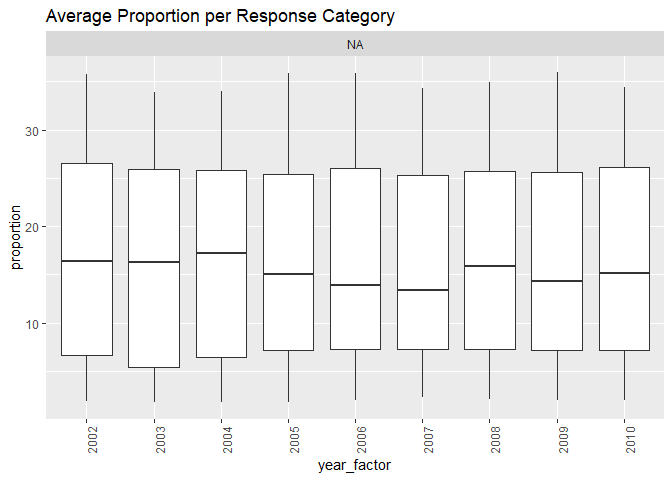
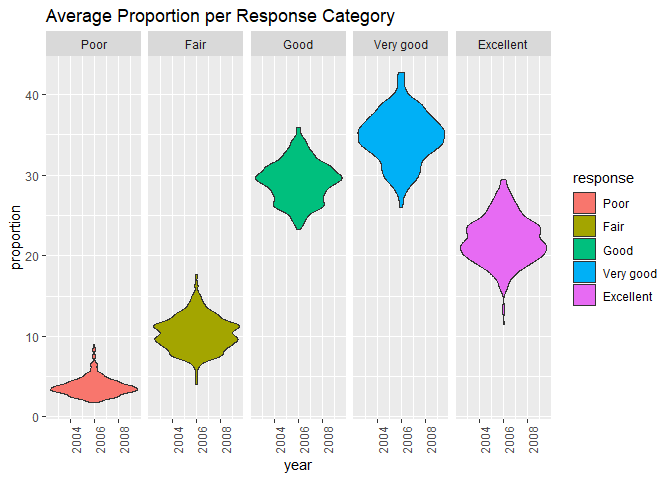
Proportions fixed

diff --git a/p8105_hw3.md b/p8105_hw3.md
@@ -32,7 +32,7 @@ brfss_data =
 ## focus on the “Overall Health” topic
   filter(topic == "Overall Health") %>%
 ## include only responses from “Excellent” to “Poor”
-  filter(response == "Excellent" | response == "Very Good" | response == "Good" | response == "Fair" | response == "Poor") %>%
+  filter(response == "Excellent" | response == "Very good" | response == "Good" | response == "Fair" | response == "Poor") %>%
 ## organize responses as a factor taking levels ordered from “Excellent” to “Poor”
   mutate(cleaned_response = as.factor(response)) %>%
   ## organize and select relevant columns for questions
@@ -41,20 +41,20 @@ brfss_data =
 brfss_data
 ```
 
-    ## # A tibble: 8,500 x 6
-    ##     year state county            topic          response  data_value
-    ##    <int> <chr> <chr>             <chr>          <chr>          <dbl>
-    ##  1  2010 AL    Jefferson County  Overall Health Excellent       18.9
-    ##  2  2010 AL    Jefferson County  Overall Health Good            33.1
-    ##  3  2010 AL    Jefferson County  Overall Health Fair            12.5
-    ##  4  2010 AL    Jefferson County  Overall Health Poor             5.5
-    ##  5  2010 AL    Mobile County     Overall Health Excellent       15.6
-    ##  6  2010 AL    Mobile County     Overall Health Good            31.2
-    ##  7  2010 AL    Mobile County     Overall Health Fair            15.5
-    ##  8  2010 AL    Mobile County     Overall Health Poor             6.4
-    ##  9  2010 AL    Tuscaloosa County Overall Health Excellent       20.8
-    ## 10  2010 AL    Tuscaloosa County Overall Health Good            33.8
-    ## # ... with 8,490 more rows
+    ## # A tibble: 10,625 x 6
+    ##     year state county           topic          response  data_value
+    ##    <int> <chr> <chr>            <chr>          <chr>          <dbl>
+    ##  1  2010 AL    Jefferson County Overall Health Excellent       18.9
+    ##  2  2010 AL    Jefferson County Overall Health Very good       30  
+    ##  3  2010 AL    Jefferson County Overall Health Good            33.1
+    ##  4  2010 AL    Jefferson County Overall Health Fair            12.5
+    ##  5  2010 AL    Jefferson County Overall Health Poor             5.5
+    ##  6  2010 AL    Mobile County    Overall Health Excellent       15.6
+    ##  7  2010 AL    Mobile County    Overall Health Very good       31.3
+    ##  8  2010 AL    Mobile County    Overall Health Good            31.2
+    ##  9  2010 AL    Mobile County    Overall Health Fair            15.5
+    ## 10  2010 AL    Mobile County    Overall Health Poor             6.4
+    ## # ... with 10,615 more rows
 
 Answers to Homework Questions
 
@@ -125,20 +125,16 @@ brfss_table
 ``` r
 brfss_proportions = 
   brfss_data %>%
-  mutate(year_factor = as.factor(year)) %>%
-  group_by(year_factor, state, response) %>%
-  summarize(brfss_excellentmean = mean(data_value), 
-            brfss_verygoodmean = mean(data_value), 
-            brfss_goodmean = mean(data_value),
-            brfss_fairmean = mean(data_value),
-            brfss_poormean = mean(data_value)) %>%
+  group_by(year, state, response) %>%
+  summarize(brfss_excellentmean = mean(as.numeric(data_value)), 
+            brfss_verygoodmean = mean(as.numeric(data_value)), 
+            brfss_goodmean = mean(as.numeric(data_value)),
+            brfss_fairmean = mean(as.numeric(data_value)),
+            brfss_poormean = mean(as.numeric(data_value))) %>%
   gather(key = cleaned_response, value = proportion, brfss_excellentmean:brfss_poormean) %>% 
-  mutate(response_f = factor('cleaned_response', levels = c('brfss_excellentmean', 'brfss_verygoodmean', 'brfss_goodmean', 'brfss_fairmean', 'brfss_poormean')))
-ggplot(brfss_proportions, aes(x = year_factor, y = proportion)) + geom_boxplot() + facet_grid(. ~ response_f) +
-  theme(axis.text.x = element_text(angle = 90)) + labs(title = "Average Proportion per Response Category"  )
+  mutate(response = forcats::fct_relevel(response, c("Poor", "Fair", "Good", "Very good", "Excellent"))) 
+ggplot(brfss_proportions, aes(x = year, y = proportion, fill = response)) + geom_violin() + facet_grid(~response) + theme(axis.text.x = element_text(angle = 90)) + labs(title = "Average Proportion per Response Category"  )
 ```
-
-    ## Warning: Removed 75 rows containing non-finite values (stat_boxplot).
 
 ![](p8105_hw3_files/figure-markdown_github/Average%20Proportions-1.png)
 
@@ -146,21 +142,21 @@ ggplot(brfss_proportions, aes(x = year_factor, y = proportion)) + geom_boxplot()
 brfss_proportions
 ```
 
-    ## # A tibble: 8,860 x 6
-    ## # Groups:   year_factor, state [443]
-    ##    year_factor state response  cleaned_response    proportion response_f
-    ##    <fct>       <chr> <chr>     <chr>                    <dbl> <fct>     
-    ##  1 2002        AK    Excellent brfss_excellentmean       27.9 <NA>      
-    ##  2 2002        AK    Fair      brfss_excellentmean        8.6 <NA>      
-    ##  3 2002        AK    Good      brfss_excellentmean       23.8 <NA>      
-    ##  4 2002        AK    Poor      brfss_excellentmean        5.9 <NA>      
-    ##  5 2002        AL    Excellent brfss_excellentmean       18.5 <NA>      
-    ##  6 2002        AL    Fair      brfss_excellentmean       12.1 <NA>      
-    ##  7 2002        AL    Good      brfss_excellentmean       32.7 <NA>      
-    ##  8 2002        AL    Poor      brfss_excellentmean        5.9 <NA>      
-    ##  9 2002        AR    Excellent brfss_excellentmean       24.1 <NA>      
-    ## 10 2002        AR    Fair      brfss_excellentmean       12.5 <NA>      
-    ## # ... with 8,850 more rows
+    ## # A tibble: 11,075 x 5
+    ## # Groups:   year, state [443]
+    ##     year state response  cleaned_response    proportion
+    ##    <int> <chr> <fct>     <chr>                    <dbl>
+    ##  1  2002 AK    Excellent brfss_excellentmean       27.9
+    ##  2  2002 AK    Fair      brfss_excellentmean        8.6
+    ##  3  2002 AK    Good      brfss_excellentmean       23.8
+    ##  4  2002 AK    Poor      brfss_excellentmean        5.9
+    ##  5  2002 AK    Very good brfss_excellentmean       33.7
+    ##  6  2002 AL    Excellent brfss_excellentmean       18.5
+    ##  7  2002 AL    Fair      brfss_excellentmean       12.1
+    ##  8  2002 AL    Good      brfss_excellentmean       32.7
+    ##  9  2002 AL    Poor      brfss_excellentmean        5.9
+    ## 10  2002 AL    Very good brfss_excellentmean       30.9
+    ## # ... with 11,065 more rows
 
 Problem \#2
 -----------
@@ -253,15 +249,19 @@ plot1_minmax =
   nynoaa_cleaned %>%
   na.omit() %>%
   select(tmin, tmax) %>%
-  ggplot(aes(x = tmin, y = tmax )) + geom_hex() + labs(title = "Minimum Temperatures vs Maximum Temperatures", x = "Minimum Temp", y = "Maximum Temp")
+  ggplot(aes(x = tmin, y = tmax )) + geom_hex() + labs(title = "Minimum Temperatures vs Maximum Temperatures", x = "Minimum Temp", y = "Maximum Temp") + theme(axis.text.x = element_text(size = 9, angle = 90))
 plot1_minmax
 ```
 
 ![](p8105_hw3_files/figure-markdown_github/unnamed-chunk-6-1.png)
 
 ``` r
-plot2_snofall =
+plot2_snowfall =
   nynoaa_cleaned %>%
   na.omit() %>%
-  filter(snow > 0 & snow < 100)
+  filter(snow > 0 & snow < 100) %>%
+  ggplot(aes(x = year, y = snow )) + geom_boxplot() + labs(title = "Distribution of Snowfall Values by Years", x = "Year", y = "Snowfall Valuesp") + theme(axis.text.x = element_text(size = 9, angle = 90))
+plot2_snowfall
 ```
+
+![](p8105_hw3_files/figure-markdown_github/unnamed-chunk-7-1.png)
